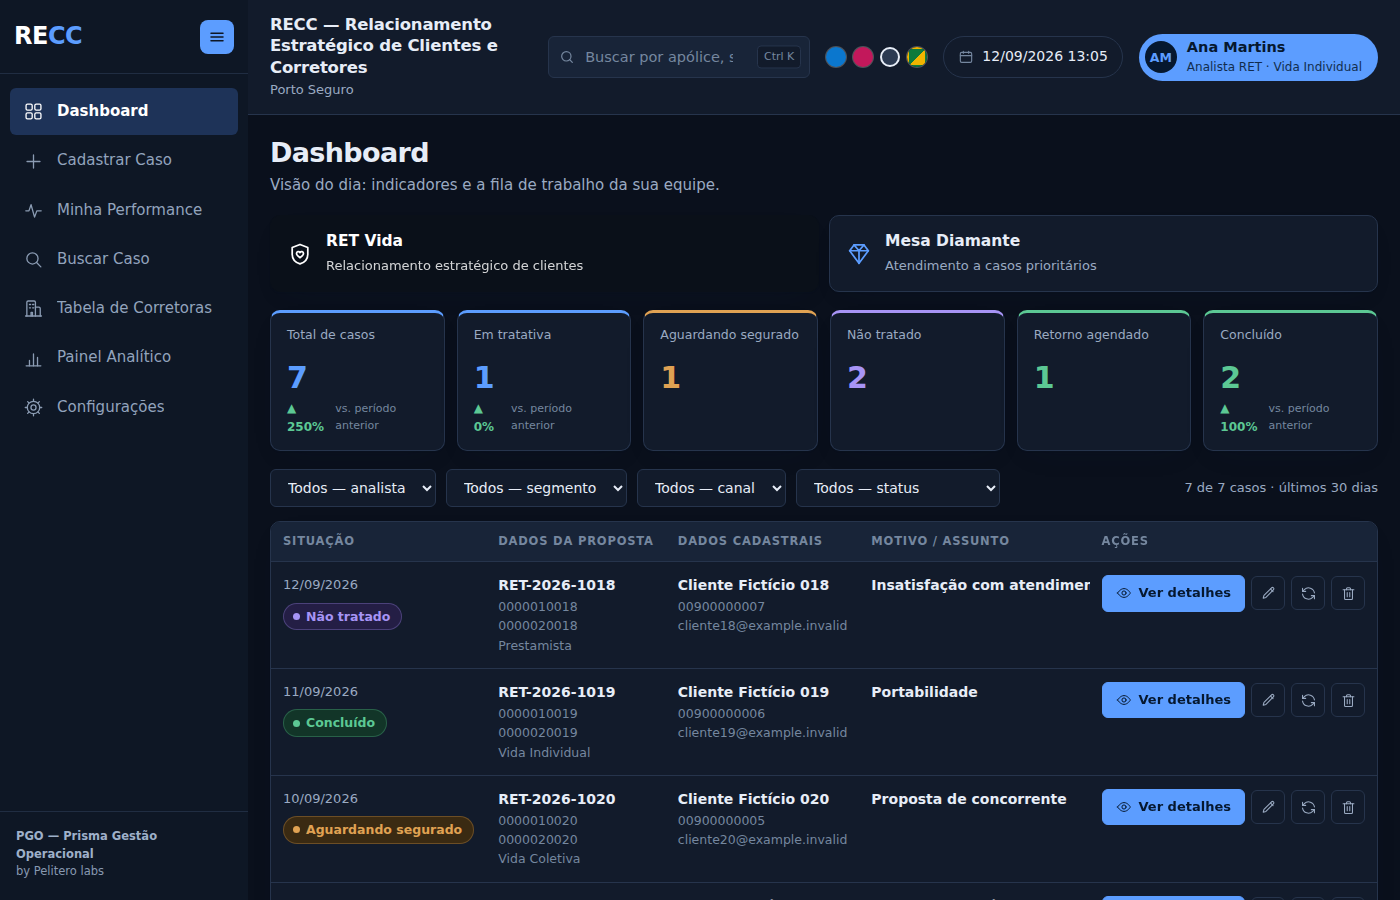
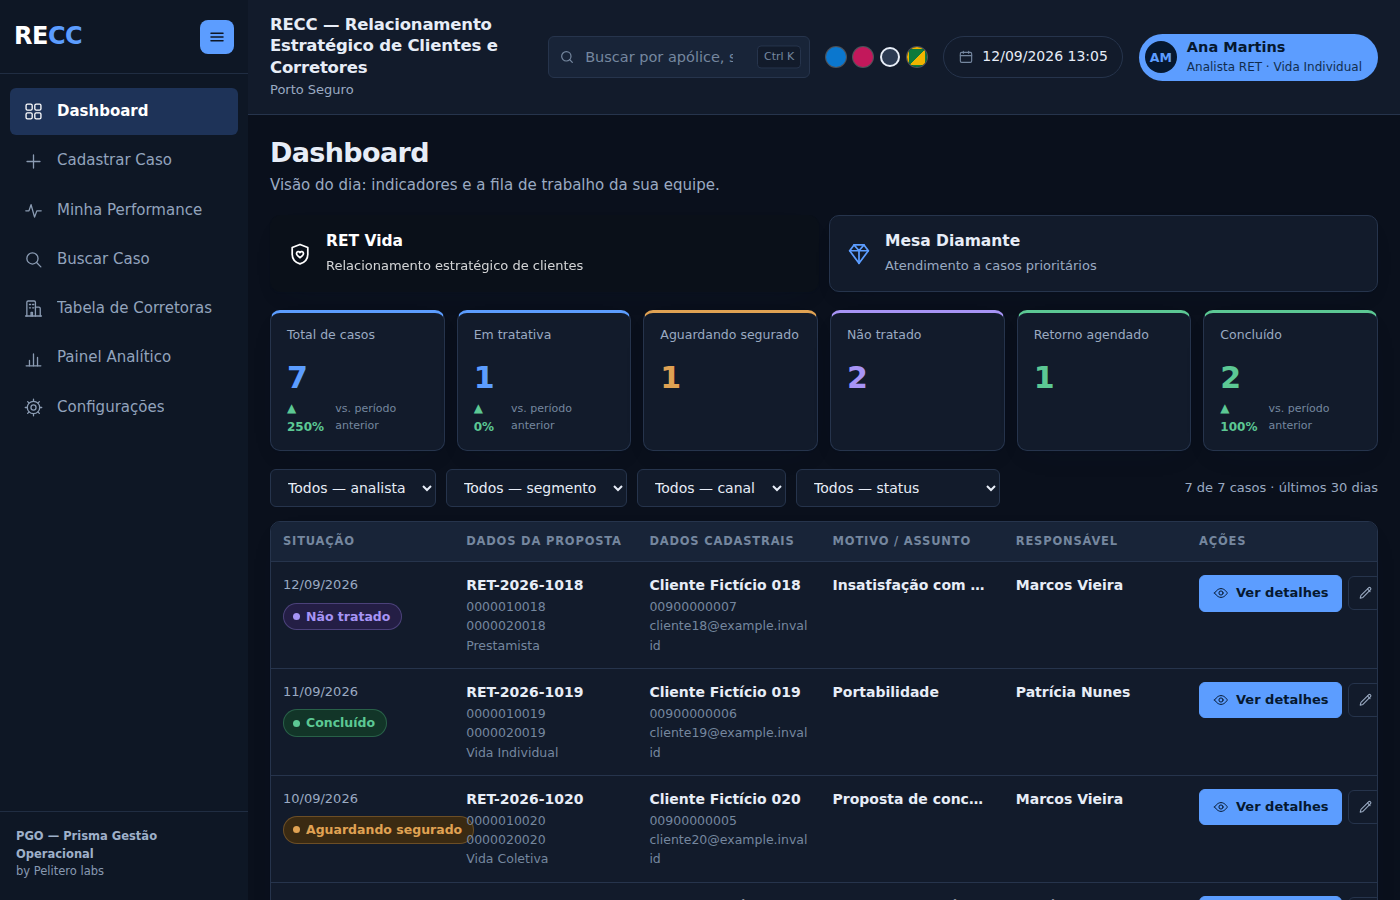
fix: a fila cabia na tela escondendo a coluna "Responsavel"
A coluna de acoes era fixa na direita e ficava POR CIMA de "Responsavel"
sempre que a tabela passava da largura da tela. Sumia uma coluna inteira
sem avisar — e era justamente a que diz de quem e o caso.

- na fila agrupada a tabela tem largura fixa: os cinco grupos dividem o
  que sobra depois das acoes, e o que nao couber e cortado com
  reticencias em vez de esconder coluna
- a coluna de acoes deixou de ser fixa na agrupada
- a linha PRINCIPAL de cada grupo nao quebra (o protocolo e o nome sao o
  que o olho varre); o apoio e o cabecalho podem quebrar
- duas acoes na linha, ver e editar, como no desenho aprovado. Alterar
  situacao e excluir passaram para o rodape do modal: quatro botoes por
  linha, repetidos trinta vezes, comiam a largura de uma coluna de dado

184 testes, cinco execucoes limpas.

Claude-Session: https://claude.ai/code/session_014N3v7WTiPHUcZbu9vUqUcc

diff --git a/Front-End/Estilos.html b/Front-End/Estilos.html
@@ -506,7 +506,38 @@ table.fila { border-collapse: collapse; width: 100%; min-width: 640px; font-size
 /* A agrupada precisa de mais largura: são cinco grupos e quatro botões de
    ação. Apertada, o texto do último grupo corria para debaixo da coluna de
    ações, que é fixa na direita. Melhor a tabela rolar do que esconder dado. */
-table.fila.agrupada { min-width: 1180px; }
+/*
+  Largura fixa, e não automática: com automática o grupo de texto mais longo
+  ("Motivo / assunto") tomava o espaço que quisesse e empurrava "Responsável"
+  para fora da tela. Fixa, os cinco grupos dividem o que sobra depois da
+  coluna de ações, e o que não couber é cortado com reticências em vez de
+  esconder uma coluna inteira.
+*/
+table.fila.agrupada { min-width: 1060px; table-layout: fixed; }
+table.fila.agrupada th.acoes-coluna, table.fila.agrupada td.acoes-coluna {
+  width: 190px;
+}
+/* Na agrupada o texto PODE quebrar: cada célula já tem várias linhas, então
+   quebrar mais uma não desalinha nada — e é o que faz as cinco colunas
+   caberem sem empurrar "Responsável" para debaixo da coluna de ações. */
+table.fila.agrupada th, table.fila.agrupada td { white-space: normal; }
+/* Menos a linha PRINCIPAL de cada grupo: o protocolo e o nome do cliente são
+   o que a pessoa varre com o olho, e partidos em duas linhas param de servir
+   para isso. O que pode quebrar é o apoio e o cabeçalho. */
+table.fila.agrupada .principal,
+table.fila.agrupada td:first-child > span:first-child {
+  white-space: nowrap; overflow: hidden; text-overflow: ellipsis;
+}
+table.fila.agrupada .apoio { overflow-wrap: anywhere; }
+/* A coluna de ações não quebra — os quatro botões em duas linhas dobrariam a
+   altura de cada linha — e, na agrupada, também não é fixa na direita.
+   Fixa, ela ficava POR CIMA de "Responsável" sempre que a tabela passava da
+   largura da tela, escondendo uma coluna inteira sem avisar. Aqui a tabela
+   inteira rola junto: ninguém perde coluna, e quem tem tela larga vê tudo. */
+table.fila.agrupada th.acoes-coluna,
+table.fila.agrupada td.acoes-coluna {
+  white-space: nowrap; position: static; box-shadow: none;
+}
 table.fila th, table.fila td {
   /* Respiro menor que o resto da tela: a fila tem sete colunas e cada pixel
      de folga aqui empurra a coluna de ações para fora do campo de visão. */
@@ -805,6 +836,8 @@ tr.detalhe td { background: var(--superficie-2); padding: 18px 16px; }
   background: var(--superficie); color: var(--texto); border-color: var(--linha);
 }
 .botao.vazado:hover { background: var(--superficie-2); border-color: var(--linha-forte); }
+.botao.vazado.perigo { color: var(--ruim); border-color: color-mix(in srgb, var(--ruim) 32%, transparent); }
+.botao.vazado.perigo:hover { background: var(--ruim-tenue); border-color: var(--ruim); }
 
 .config-explica {
   font-size: 12.5px; color: var(--suave); line-height: 1.45;

diff --git a/Front-End/Dashboard.html b/Front-End/Dashboard.html
@@ -157,6 +157,14 @@ var TelaDashboard = (function () {
     }).join('');
   }
 
+  /**
+   * As ações da linha: ver e editar, e só.
+   *
+   * Alterar situação e excluir moram no rodapé do modal. Quatro botões por
+   * linha, repetidos trinta vezes, tomavam a largura de uma coluna inteira de
+   * dado — e a coluna que sumia era "Responsável". Duas ações na linha, as
+   * outras a um clique, cabem e continuam à mão.
+   */
   function acoesDaLinha(caso) {
     var botoes = '<button type="button" class="acao ver" data-caso="'
       + escapar(caso.id) + '">' + Moldura.icone('olho') + ' Ver detalhes</button>';
@@ -164,20 +172,7 @@ var TelaDashboard = (function () {
     if (resumo.podeEditar) {
       botoes += '<button type="button" class="acao-icone" data-editar="'
         + escapar(caso.id) + '" title="Editar caso" aria-label="Editar caso">'
-        + Moldura.icone('editar') + '</button>'
-        // `data-trocar-situacao`, e não `data-situacao`: os CARTÕES já usam
-        // `data-situacao` para filtrar a fila. Com o mesmo nome, clicar num
-        // cartão abriria o diálogo de troca de situação de um caso que não
-        // existe — o valor ali é o rótulo do cartão, não um Id.
-        + '<button type="button" class="acao-icone" data-trocar-situacao="'
-        + escapar(caso.id) + '" title="Alterar situação"'
-        + ' aria-label="Alterar situação">'
-        + Moldura.icone('trocarSituacao') + '</button>';
-    }
-    if (resumo.podeOcultar) {
-      botoes += '<button type="button" class="acao-icone perigo" data-ocultar="'
-        + escapar(caso.id) + '" title="Excluir — a linha permanece na planilha"'
-        + ' aria-label="Excluir caso">' + Moldura.icone('ocultar') + '</button>';
+        + Moldura.icone('editar') + '</button>';
     }
     return botoes;
   }
@@ -239,13 +234,6 @@ var TelaDashboard = (function () {
     ligarCliques('[data-editar]', function (botao) {
       CasoEmModal.abrir(mesaEscolhida, botao.getAttribute('data-editar'),
         carregar, true);
-    });
-    ligarCliques('[data-trocar-situacao]', function (botao) {
-      CasoEmModal.trocarSituacao(mesaEscolhida,
-        botao.getAttribute('data-trocar-situacao'), carregar);
-    });
-    ligarCliques('[data-ocultar]', function (botao) {
-      ocultar(botao.getAttribute('data-ocultar'));
     });
   }
 

diff --git a/Front-End/CasoEmModal.html b/Front-End/CasoEmModal.html
@@ -145,7 +145,15 @@ var CasoEmModal = (function () {
       + '</div>'
       + desenharHistorico();
 
+    // As quatro ações do caso vivem aqui: as duas da linha, mais alterar
+    // situação e excluir. Na fila só cabem duas sem comer uma coluna de dado.
     elemento('modal-pe').innerHTML = botaoFechar()
+      + (detalhe.podeOcultar
+        ? '<button type="button" class="botao vazado perigo" id="modal-excluir">'
+          + Moldura.icone('ocultar') + ' Excluir</button>' : '')
+      + (detalhe.podeEditar
+        ? '<button type="button" class="botao vazado" id="modal-situacao">'
+          + Moldura.icone('trocarSituacao') + ' Alterar situação</button>' : '')
       + (detalhe.podeEditar
         ? '<button type="button" class="botao" id="modal-editar">'
           + Moldura.icone('editar') + ' Editar caso</button>' : '');
@@ -153,6 +161,29 @@ var CasoEmModal = (function () {
 
     var editar = elemento('modal-editar');
     if (editar) editar.addEventListener('click', abrirEdicao);
+
+    var situacao = elemento('modal-situacao');
+    if (situacao) {
+      situacao.addEventListener('click', function () {
+        trocarSituacao(mesaAtual, idAtual, function () {
+          mudouAlgo = true;
+          carregar();
+        });
+      });
+    }
+
+    var excluir = elemento('modal-excluir');
+    if (excluir) excluir.addEventListener('click', function () {
+      // O texto diz a verdade: a linha permanece na planilha. Prometer "não
+      // poderá ser desfeito" quando dá para desfazer assusta à toa.
+      if (!window.confirm('Excluir o caso ' + idAtual + '?\n\n'
+        + 'Ele sai do sistema para todo mundo. A linha permanece na planilha '
+        + 'e pode ser trazida de volta por um administrador.')) return;
+
+      Servidor.chamar('ocultarCaso', mesaAtual, idAtual)
+        .entao(function () { mudouAlgo = true; fechar(); })
+        .senao(function (erro) { window.alert(erro.message || String(erro)); });
+    });
   }
 
   function desenharHistorico() {

diff --git a/Evolucao/Testes/testes-painel.js b/Evolucao/Testes/testes-painel.js
@@ -268,16 +268,17 @@ function rodarTestesDoPainel() {
     const modal = fs.readFileSync(path.join(pasta, 'CasoEmModal.html'), 'utf8');
 
     contem(dashboard, 'CasoEmModal.abrir(', 'ver detalhes abre o modal');
-    contem(dashboard, 'CasoEmModal.trocarSituacao(');
-    contem(dashboard, "Servidor.chamar('ocultarCaso'");
-    contem(modal, "Servidor.chamar('editarCaso'");
+    contem(dashboard, 'data-editar', 'e o lápis abre o mesmo modal, já em edição');
 
-    // O botão da linha NÃO pode dividir o atributo com o cartão: os cartões
-    // usam data-situacao para filtrar a fila, e com o mesmo nome clicar num
-    // cartão abriria a troca de situação de um caso que não existe.
-    contem(dashboard, 'data-trocar-situacao');
-    verdadeiro(dashboard.indexOf("ligarCliques('[data-situacao]'") < 0,
-      'o mesmo atributo em duas coisas diferentes já quebrou aqui uma vez');
+    // As quatro ações do caso existem, e todas passam pelo modal: duas na
+    // linha (ver e editar) e as outras duas no rodapé dele. Quatro botões por
+    // linha comiam a largura da coluna "Responsável".
+    contem(modal, "Servidor.chamar('editarCaso'");
+    contem(modal, "Servidor.chamar('ocultarCaso'");
+    contem(modal, "Servidor.chamar('alterarSituacaoDoCaso'");
+    verdadeiro(dashboard.indexOf('data-trocar-situacao') < 0
+      && dashboard.indexOf('data-ocultar') < 0,
+      'as duas ações menos frequentes não repetem em toda linha');
 
     // Quatro saídas do modal: Esc, o X, o botão e clicar fora. Modal que
     // prende é modal que a pessoa aprende a não abrir.
